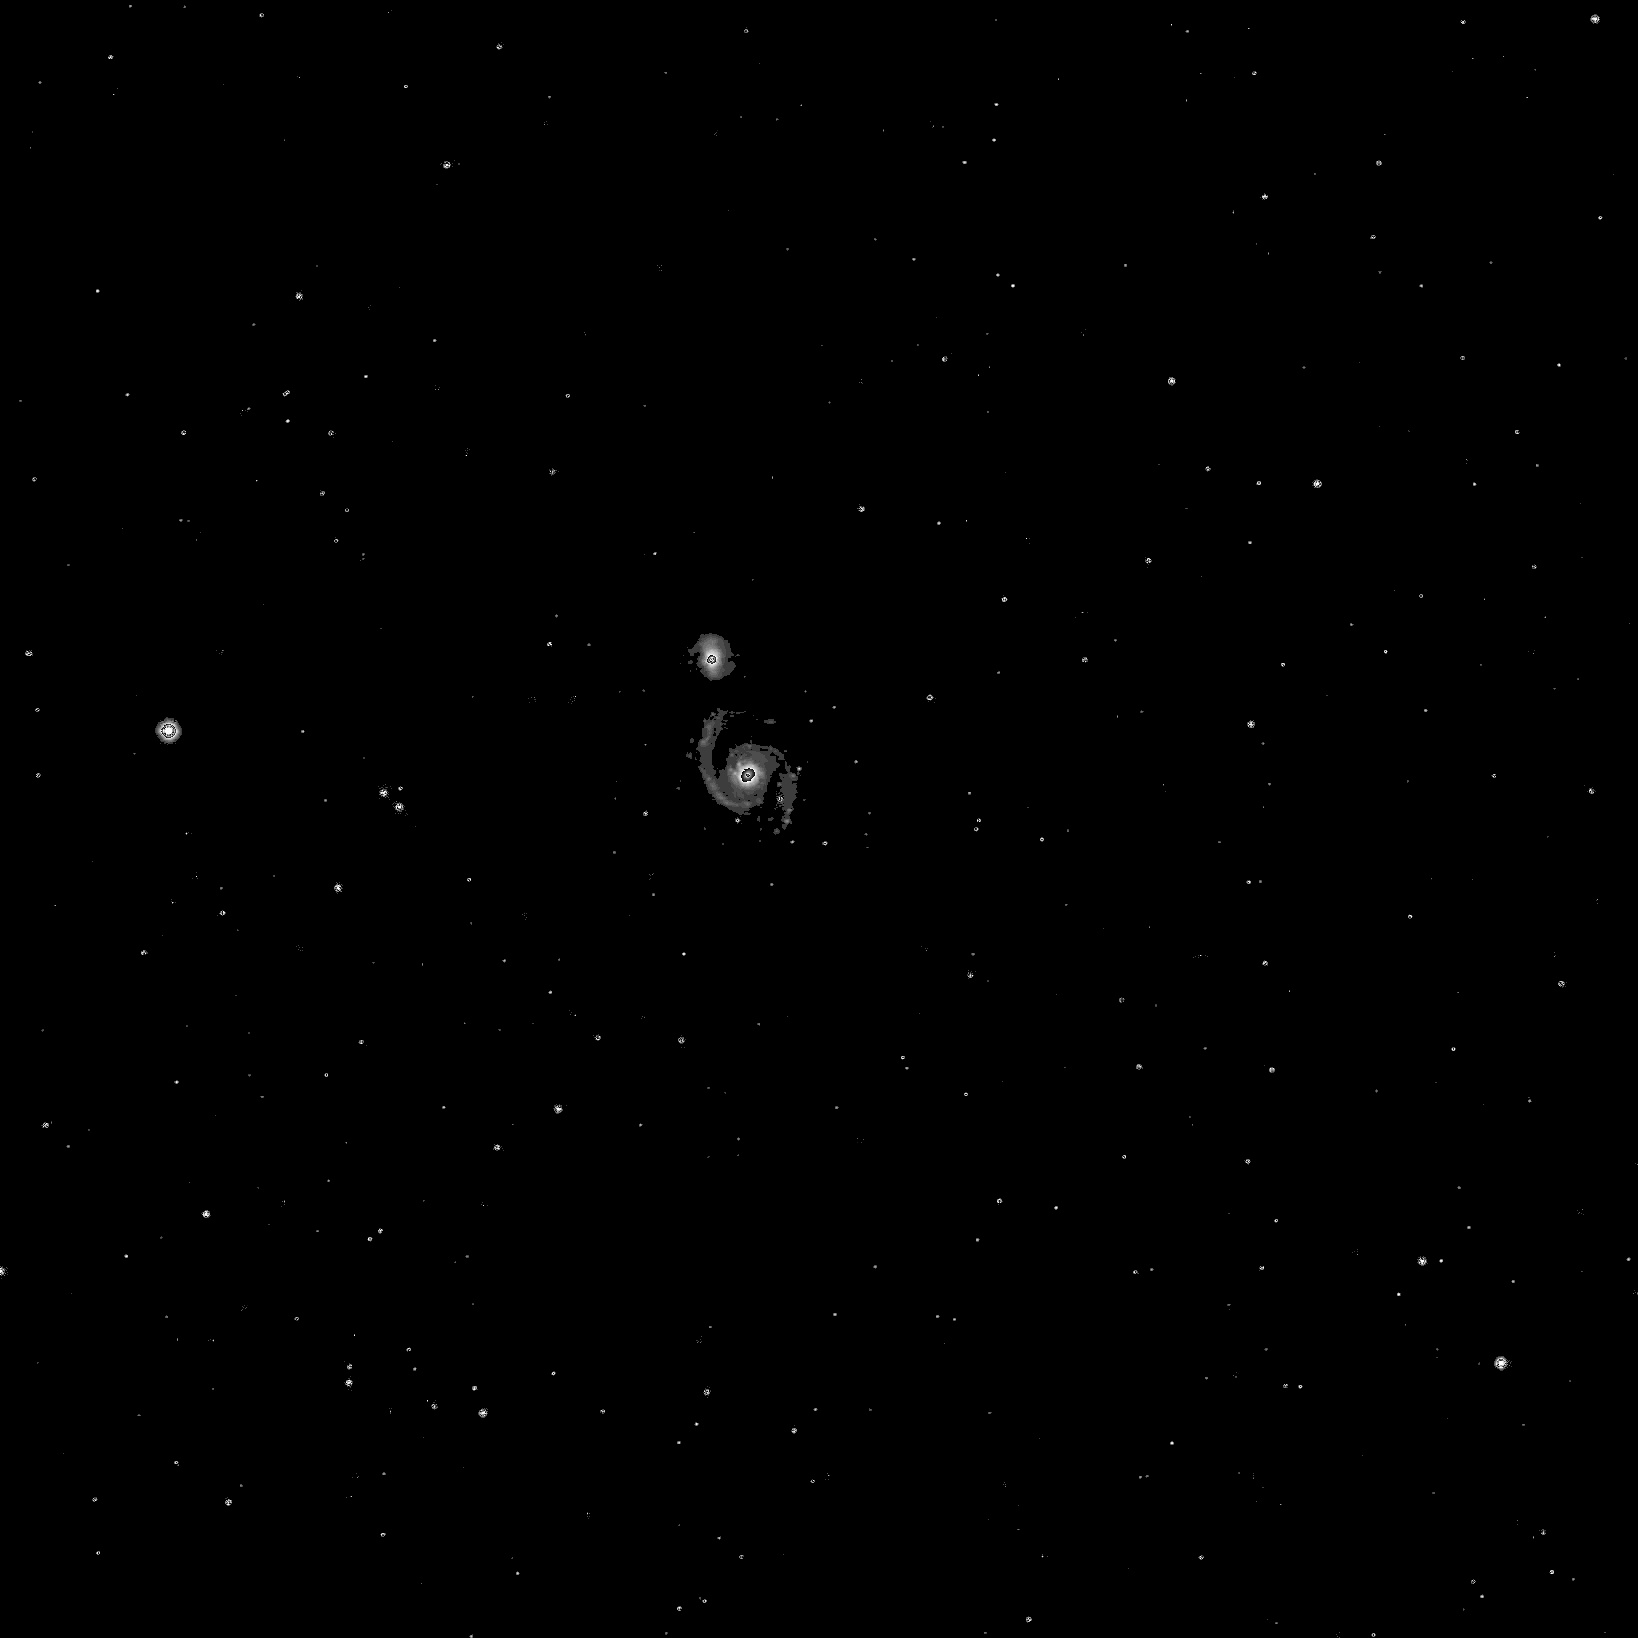
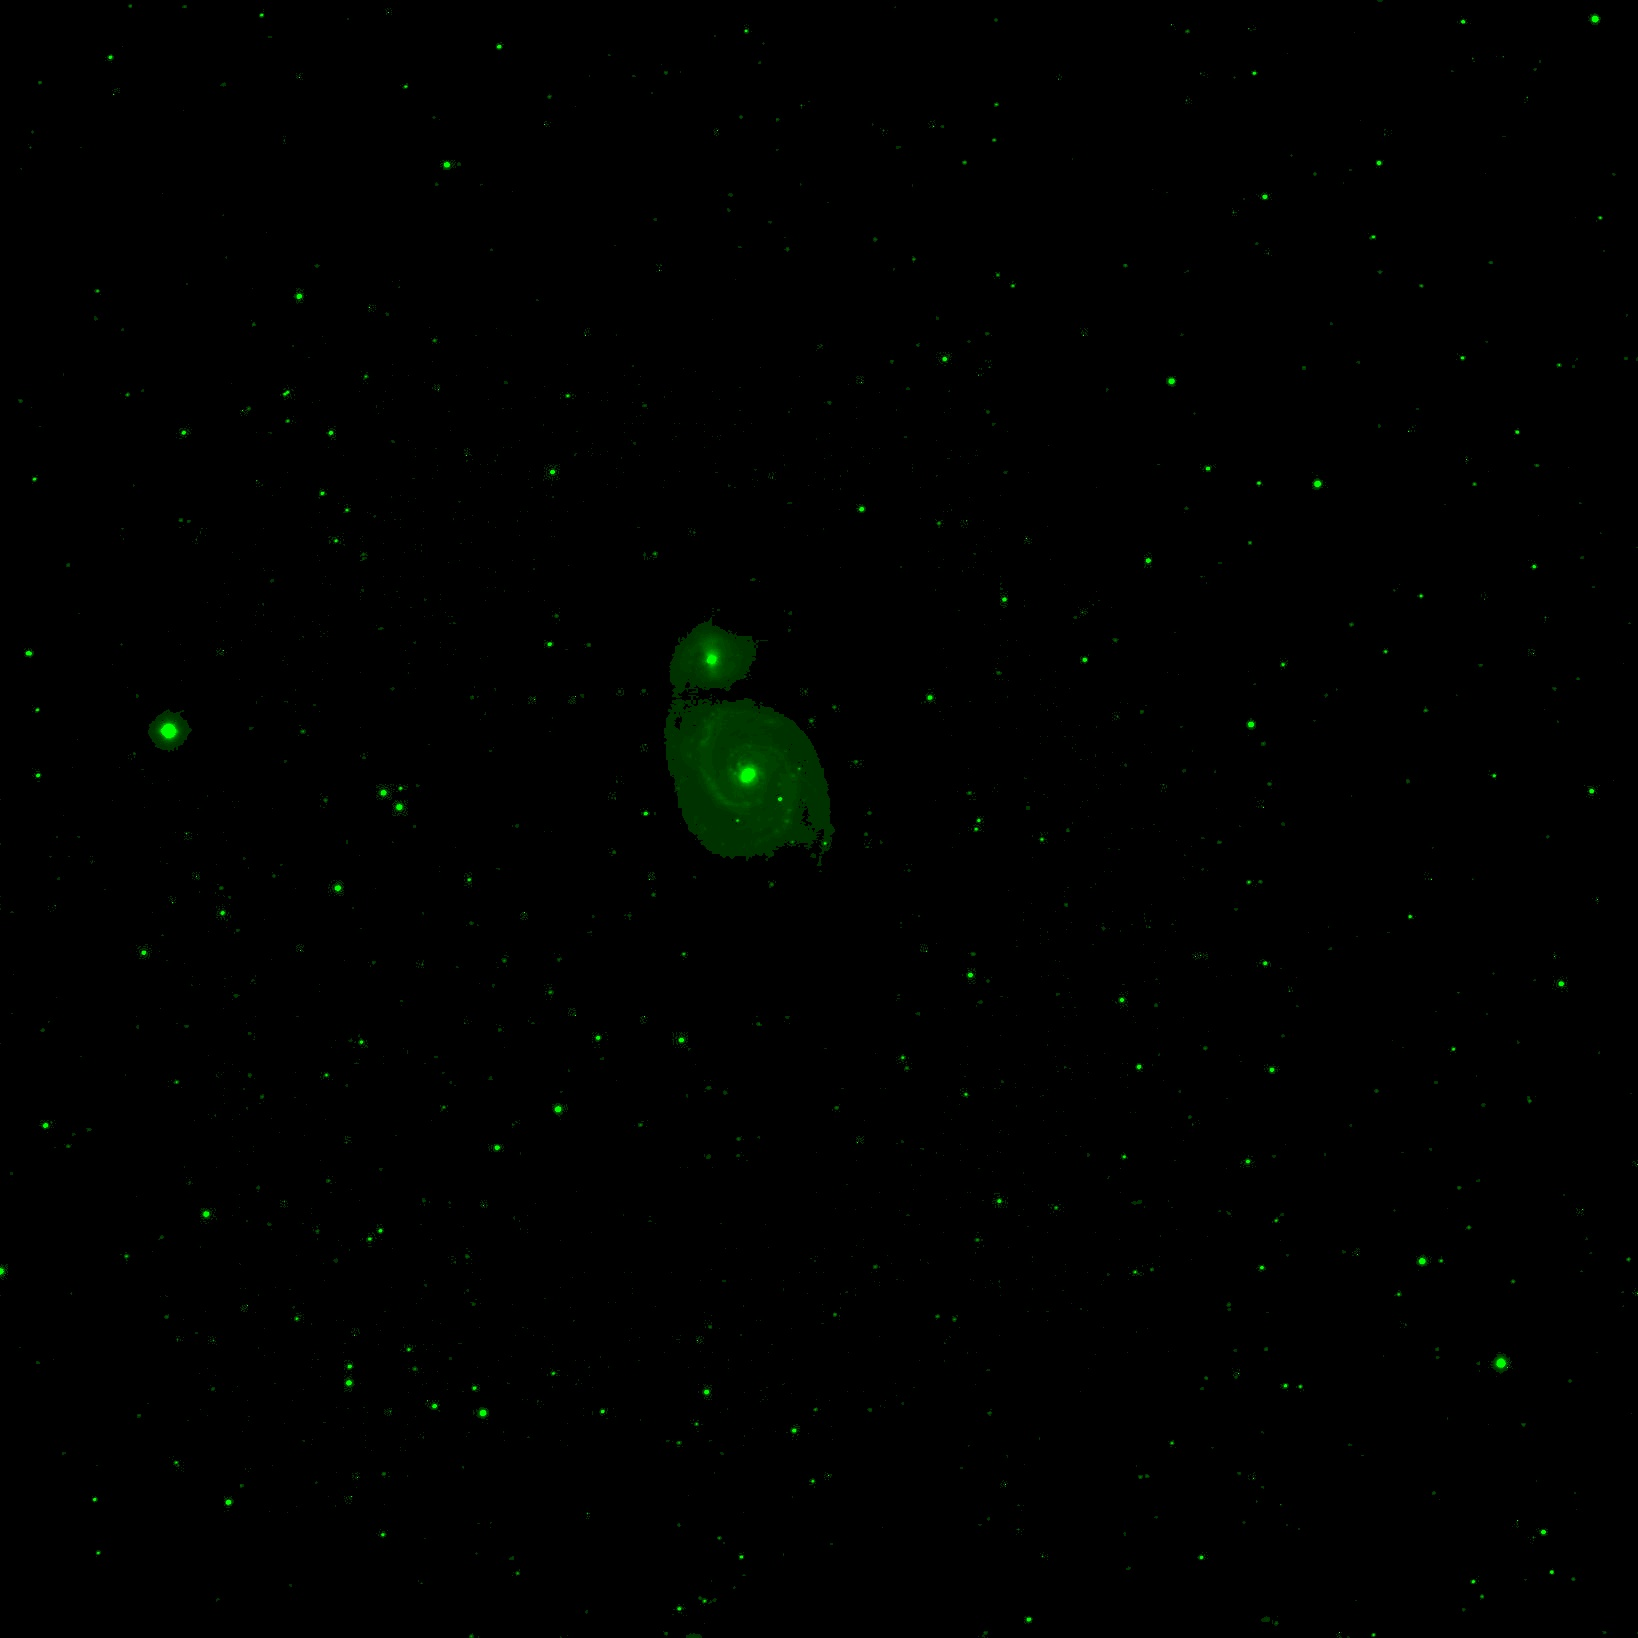
bla

diff --git a/Lamiah/pic_improver.py b/Lamiah/pic_improver.py
@@ -12,17 +12,17 @@ if(b_os_is_windows):
     s_path_file_name = "\\".join(s_path_file_name.split("/"))
 
 o_img = cv2.imread(s_path_file_name)
-
+counter = 0
 
 a_img = o_img
 n_img_width = o_img.shape[0]
 n_img_height = o_img.shape[1]
-n_below_blacklevel = 255/18 #threshhold
+n_below_blacklevel = 255/20 #threshhold
 counter = 0
 def f_set_pixel_value(a_pixel, n_value): # 2 Parameter stehen bei Aufrufen zur Verfügung
-    a_pixel[0] = n_value
+    a_pixel[0] = 0
     a_pixel[1] = n_value
-    a_pixel[2] = n_value
+    a_pixel[2] = 0
 
 # loop over the image, pixel by pixel
 for n_y in range(0,n_img_height):
@@ -37,11 +37,11 @@ for n_y in range(0,n_img_height):
             f_set_pixel_value(a_pixel,0)
         elif n_value > n_below_blacklevel:
             
-            f_set_pixel_value(a_pixel, min(n_value + np.log(n_value)), 255)) #Funktion min() nimmt immer das kleinste der Argumente
+            f_set_pixel_value(a_pixel, min(0.5*n_value**1.8, 255)) #Funktion min() nimmt immer das kleinste der Argumente
         # if n_value > n_below_blacklevel:
         #     f_set_pixel_value(a_pixel, min(n_value + 20, 255))
 
-print(counter)
+
 print(n_img_height)
 print(n_img_width)
 print(n_img_height*n_img_width)

diff --git a/Lamiah/generate_colour.py b/Lamiah/generate_colour.py
@@ -1,0 +1,14 @@
+import cv2
+
+s_pic = "./../2019-10-26T03-26-55_M51_Clear_280s_big.jpg"
+o_pic = cv2.imread(s_pic)
+
+# o_pic = array with shape [height,width] 
+# -> height-array: [pixel, pixel, pixel,...] 
+# -> width-array: same
+# pixel-array: [subpixel1,subpixel2,subpixel3]
+
+n_pic_height = o_pic.shape[0] 
+n_pic_width = o_pic.shape[1]
+print(n_pic_height)
+
